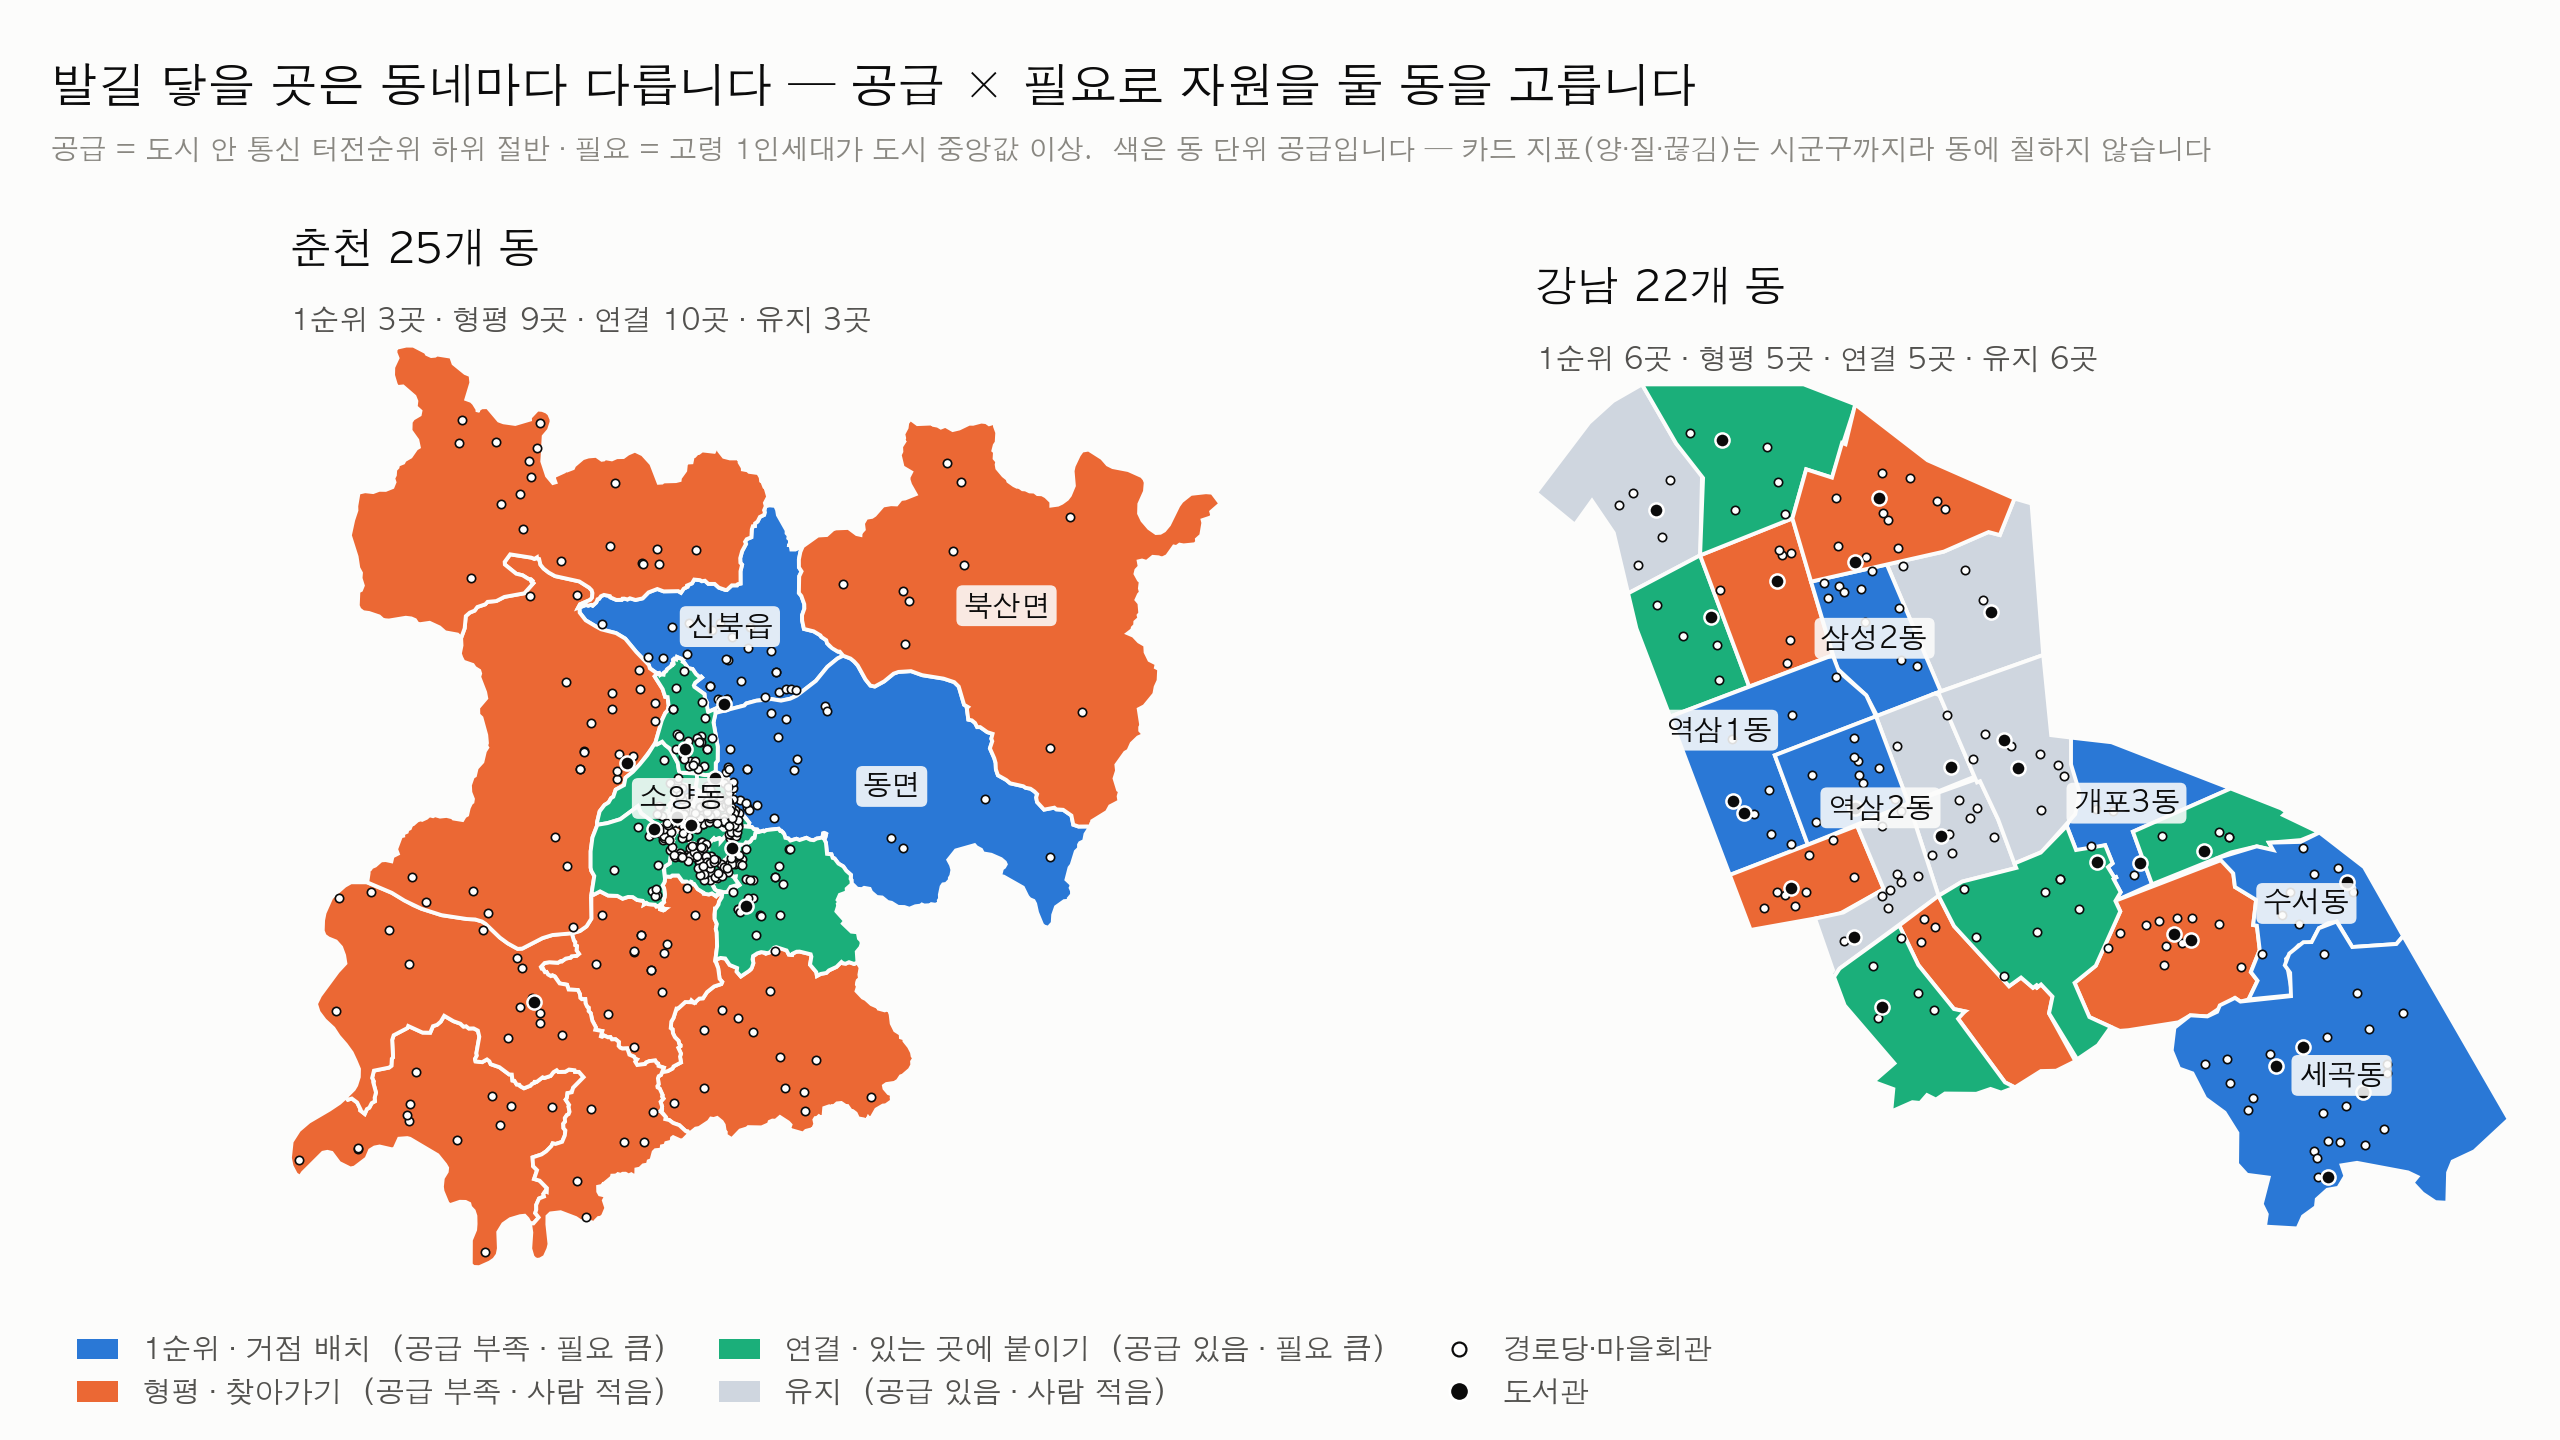
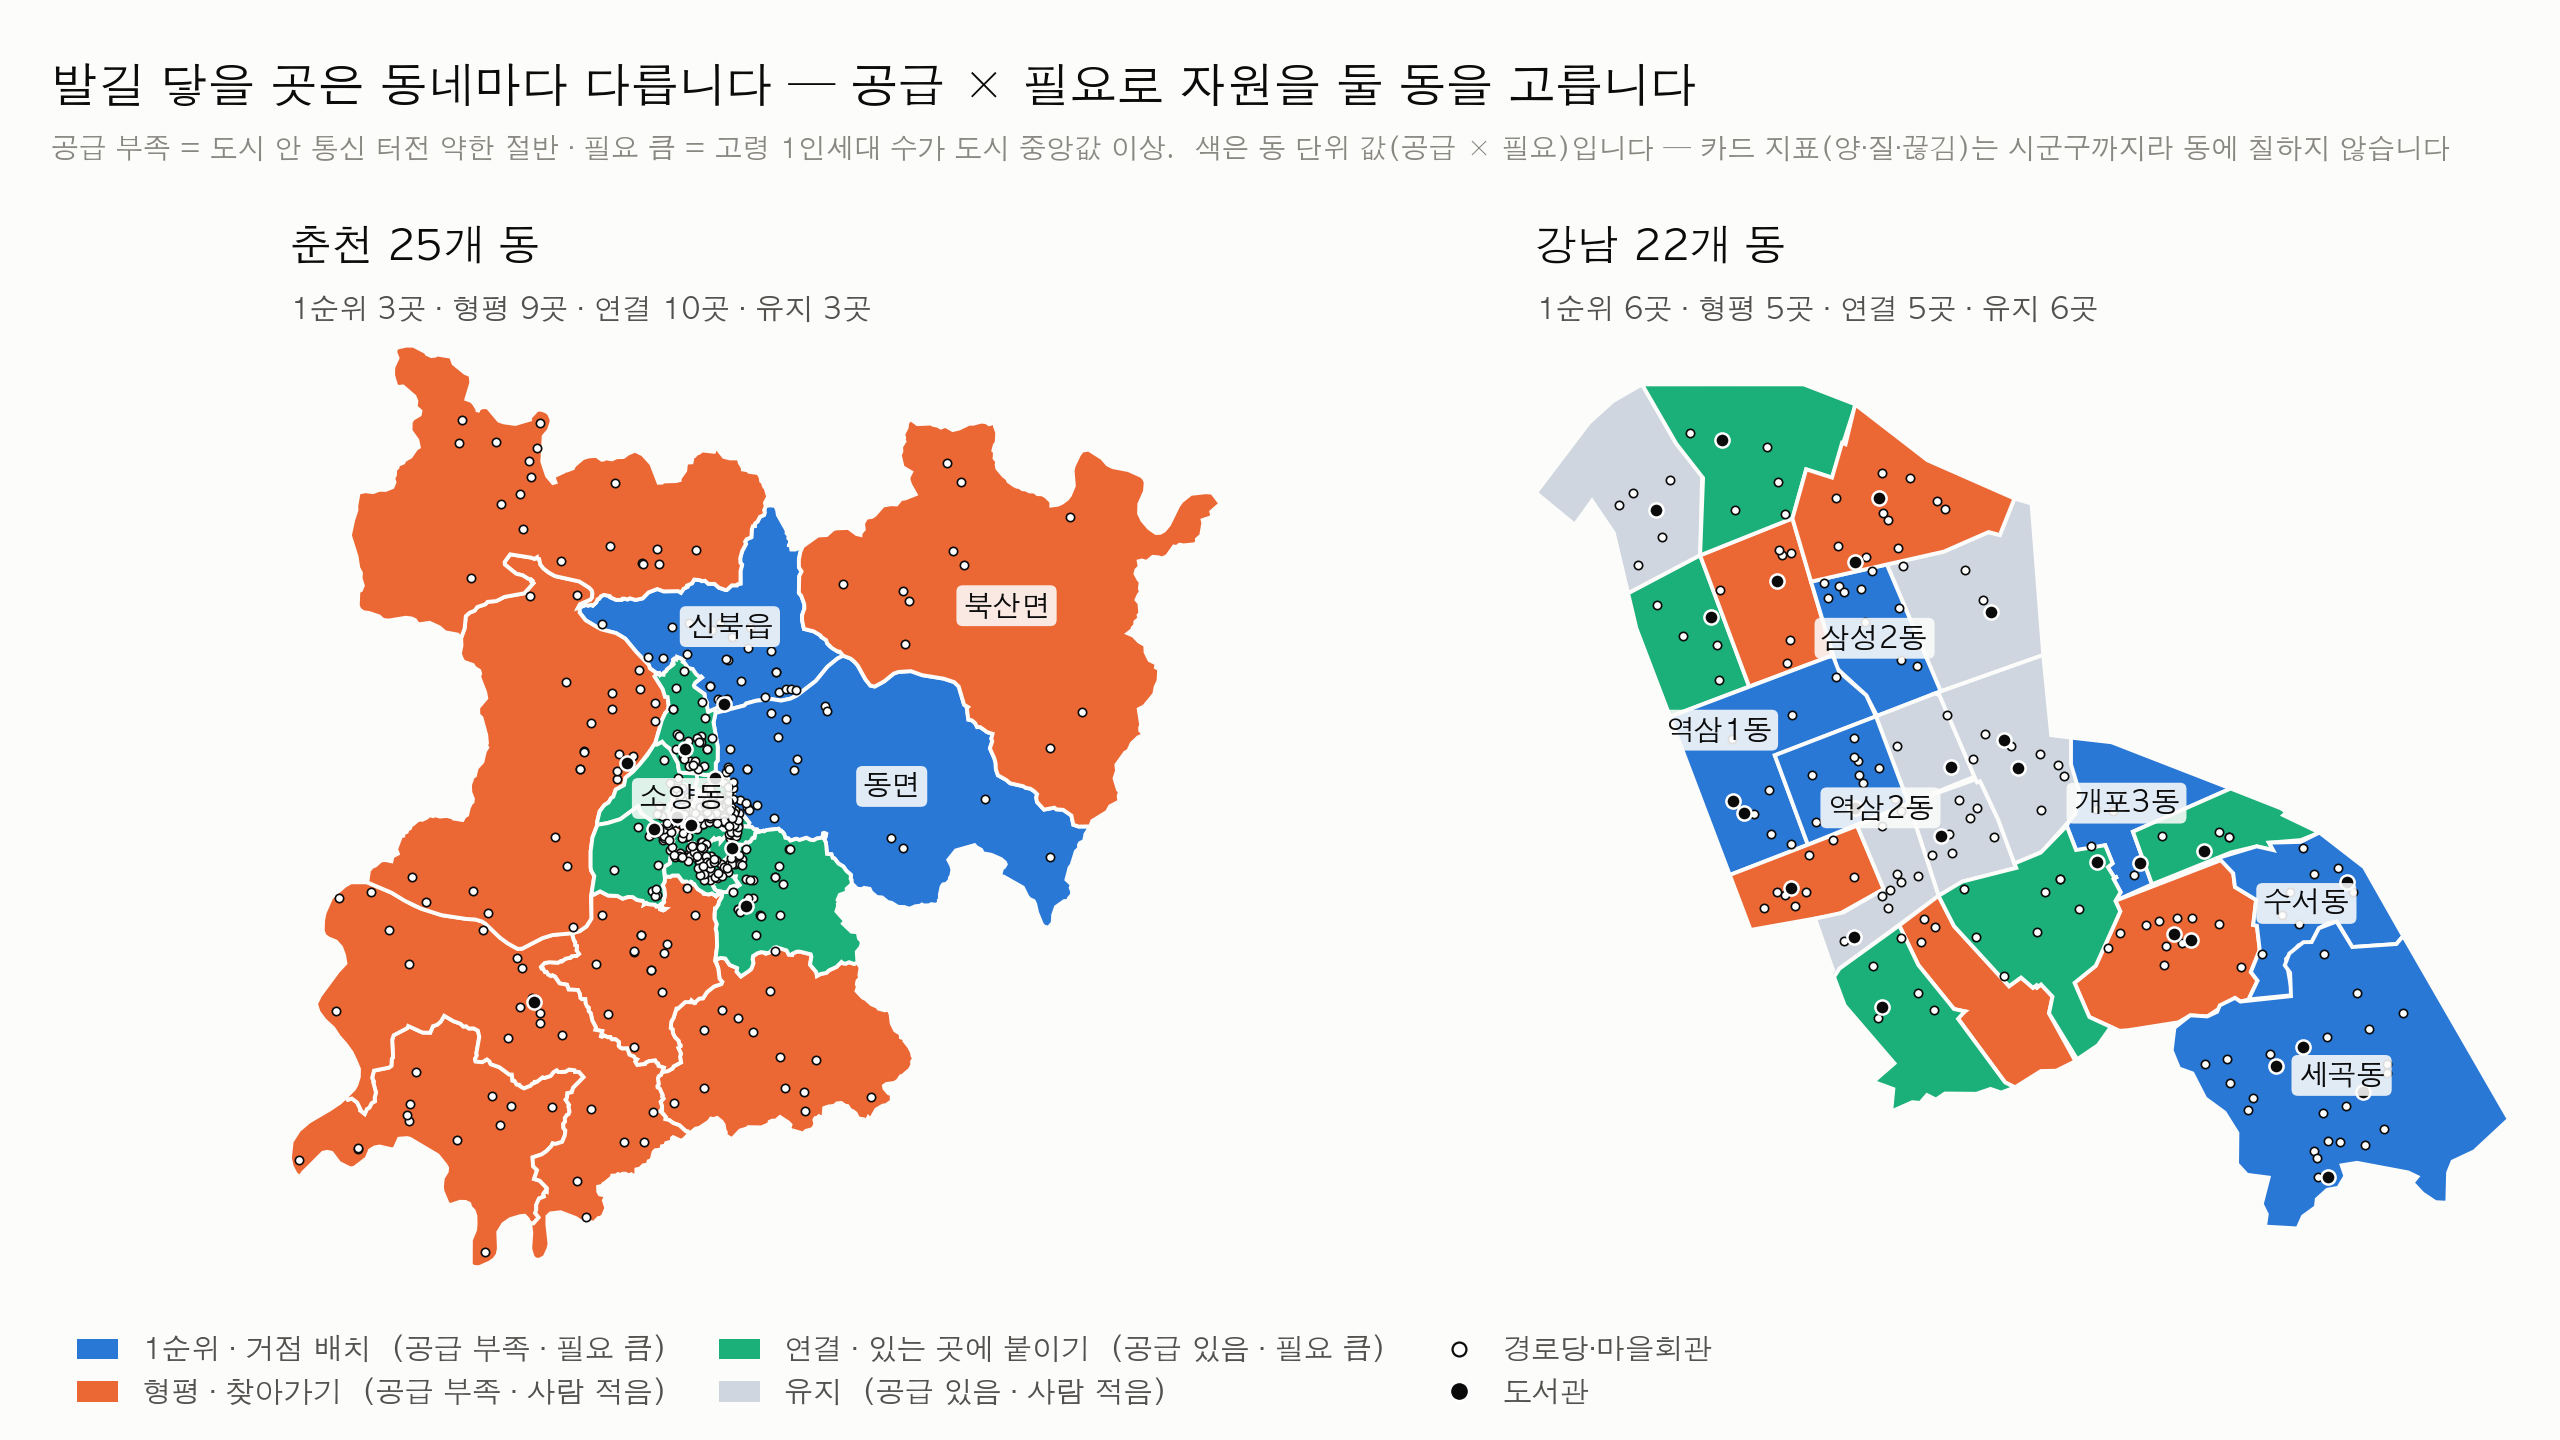
5장 지도 부제를 범례와 같은 말로, 두 도시 제목을 같은 높이에 (#101 수경 리뷰)
- 부제: 「공급 = 하위 절반」→「공급 부족 = 약한 절반」, 「필요 = 1인세대」→「필요 큼 = 1인세대 수」.
  범례가 공급 부족 · 공급 있음으로 가르므로 같은 낱말을 쓴다.
- 「색은 동 단위 공급」→「색은 동 단위 값(공급 × 필요)」. 색은 네 칸이지 공급 하나가 아니다.
  슬라이드 5장 메모(116행)도 같은 문장으로 맞춘다.
- 가로세로 비를 맞추면 두 지도의 실제 높이가 달라져 제목이 어긋났다.
  apply_aspect 뒤 위쪽 끝을 재서 제목 · 칸 수를 그림 좌표의 같은 줄에 둔다.

diff --git a/scripts/fig_ground_map.py b/scripts/fig_ground_map.py
@@ -81,7 +81,7 @@ def area(ring: list[list[float]]) -> float:
     return abs(sum(x0 * y1 - x1 * y0 for (x0, y0), (x1, y1) in zip(ring, ring[1:] + ring[:1]))) / 2
 
 
-def draw_city(ax, feats: list[dict], fac: pd.DataFrame, pri: pd.DataFrame, title: str) -> None:
+def draw_city(ax, feats: list[dict], fac: pd.DataFrame, pri: pd.DataFrame) -> str:
     xs, ys = [], []
     for f in feats:
         q = pri.loc[f["properties"]["ADM_CD"], "사분면"]
@@ -109,9 +109,7 @@ def draw_city(ax, feats: list[dict], fac: pd.DataFrame, pri: pd.DataFrame, title
     ax.set_aspect(1 / math.cos(math.radians((min(ys) + max(ys)) / 2)))
     ax.set_axis_off()
     n = pri.loc[[f["properties"]["ADM_CD"] for f in feats], "사분면"].value_counts()
-    ax.set_title(title, loc="left", fontsize=15, color=INK, fontweight="bold", pad=30)
-    ax.text(0, 1.012, " · ".join(f"{QUAD[k][1].split(' · ')[0]} {n.get(k, 0)}곳" for k in QUAD),
-            transform=ax.transAxes, fontsize=10.5, color=INK_2, va="bottom", ha="left")
+    return " · ".join(f"{QUAD[k][1].split(' · ')[0]} {n.get(k, 0)}곳" for k in QUAD)
 
 
 def main() -> None:
@@ -125,10 +123,20 @@ def main() -> None:
 
     fig = plt.figure(figsize=(12.8, 7.2), facecolor=SURFACE)
     boxes = [(0.02, 0.12, 0.55, 0.64), (0.60, 0.12, 0.38, 0.64)]   # 춘천이 넓어 왼쪽을 크게
+    panels = []
     for (city, sgg), box in zip(CITIES, boxes):
         feats = [f for f in geo if f["properties"]["도시"] == city]
         ax = fig.add_axes(box)
-        draw_city(ax, feats, fac[fac["SGG_NM"] == sgg], pri, f"{city} {len(feats)}개 동")
+        panels.append((ax, f"{city} {len(feats)}개 동", draw_city(ax, feats, fac[fac["SGG_NM"] == sgg], pri)))
+
+    # 가로세로 비를 맞추면 두 지도의 실제 높이가 달라진다 — 제목은 축 대신 그림 좌표에서 같은 줄에 둔다
+    for ax, _, _ in panels:
+        ax.apply_aspect()
+    top = max(ax.get_position().y1 for ax, _, _ in panels)
+    for ax, title, counts in panels:
+        x0 = ax.get_position().x0
+        fig.text(x0, top + 0.055, title, fontsize=15, color=INK, fontweight="bold", va="bottom")
+        fig.text(x0, top + 0.015, counts, fontsize=10.5, color=INK_2, va="bottom")
 
     fig.text(0.02, 0.955, "발길 닿을 곳은 동네마다 다릅니다 — 공급 × 필요로 자원을 둘 동을 고릅니다",
              fontsize=17, color=INK, fontweight="bold", va="top")
@@ -137,8 +145,8 @@ def main() -> None:
                 Line2D([], [], ls="", marker="o", ms=7, mfc=INK, mec="#ffffff", label="도서관")]
     fig.legend(handles=handles, loc="lower left", bbox_to_anchor=(0.02, 0.005), ncol=3, frameon=False,
                fontsize=10.5, handlelength=1.4, columnspacing=1.8, labelcolor=INK_2)
-    fig.text(0.02, 0.905, "공급 = 도시 안 통신 터전순위 하위 절반 · 필요 = 고령 1인세대가 도시 중앙값 이상.  "
-             "색은 동 단위 공급입니다 — 카드 지표(양·질·끊김)는 시군구까지라 동에 칠하지 않습니다",
+    fig.text(0.02, 0.905, "공급 부족 = 도시 안 통신 터전 약한 절반 · 필요 큼 = 고령 1인세대 수가 도시 중앙값 이상.  "
+             "색은 동 단위 값(공급 × 필요)입니다 — 카드 지표(양·질·끊김)는 시군구까지라 동에 칠하지 않습니다",
              fontsize=10, color=MUTED, va="top")
 
     OUT.parent.mkdir(parents=True, exist_ok=True)

diff --git a/docs/draft/발표자료_슬라이드.md b/docs/draft/발표자료_슬라이드.md
@@ -113,7 +113,7 @@
 
 > **북산면은 사례로만 씁니다.** 춘천 터전 약한 순 1위이고 체류형 점포 4개에 경로당·마을회관 11곳이라 「가게 대신 경로당」을 보이기 좋습니다. 다만 **천 명당 최하위는 사북면**입니다(수치표 6절). 「북산면 0개」는 패턴 버그가 만든 값이라 쓰지 않습니다.
 >
-> 지도의 색은 **동 단위 공급**입니다. 카드 지표(양·질·끊김)는 시군구까지라 동에 칠하지 않습니다. 「터전점수가 낮은 동에서 끊김이 잘 뜬다」는 쓰지 않습니다.
+> 지도의 색은 **동 단위 값(공급 × 필요)**입니다. 카드 지표(양·질·끊김)는 시군구까지라 동에 칠하지 않습니다. 「터전점수가 낮은 동에서 끊김이 잘 뜬다」는 쓰지 않습니다.
 
 ---
 
